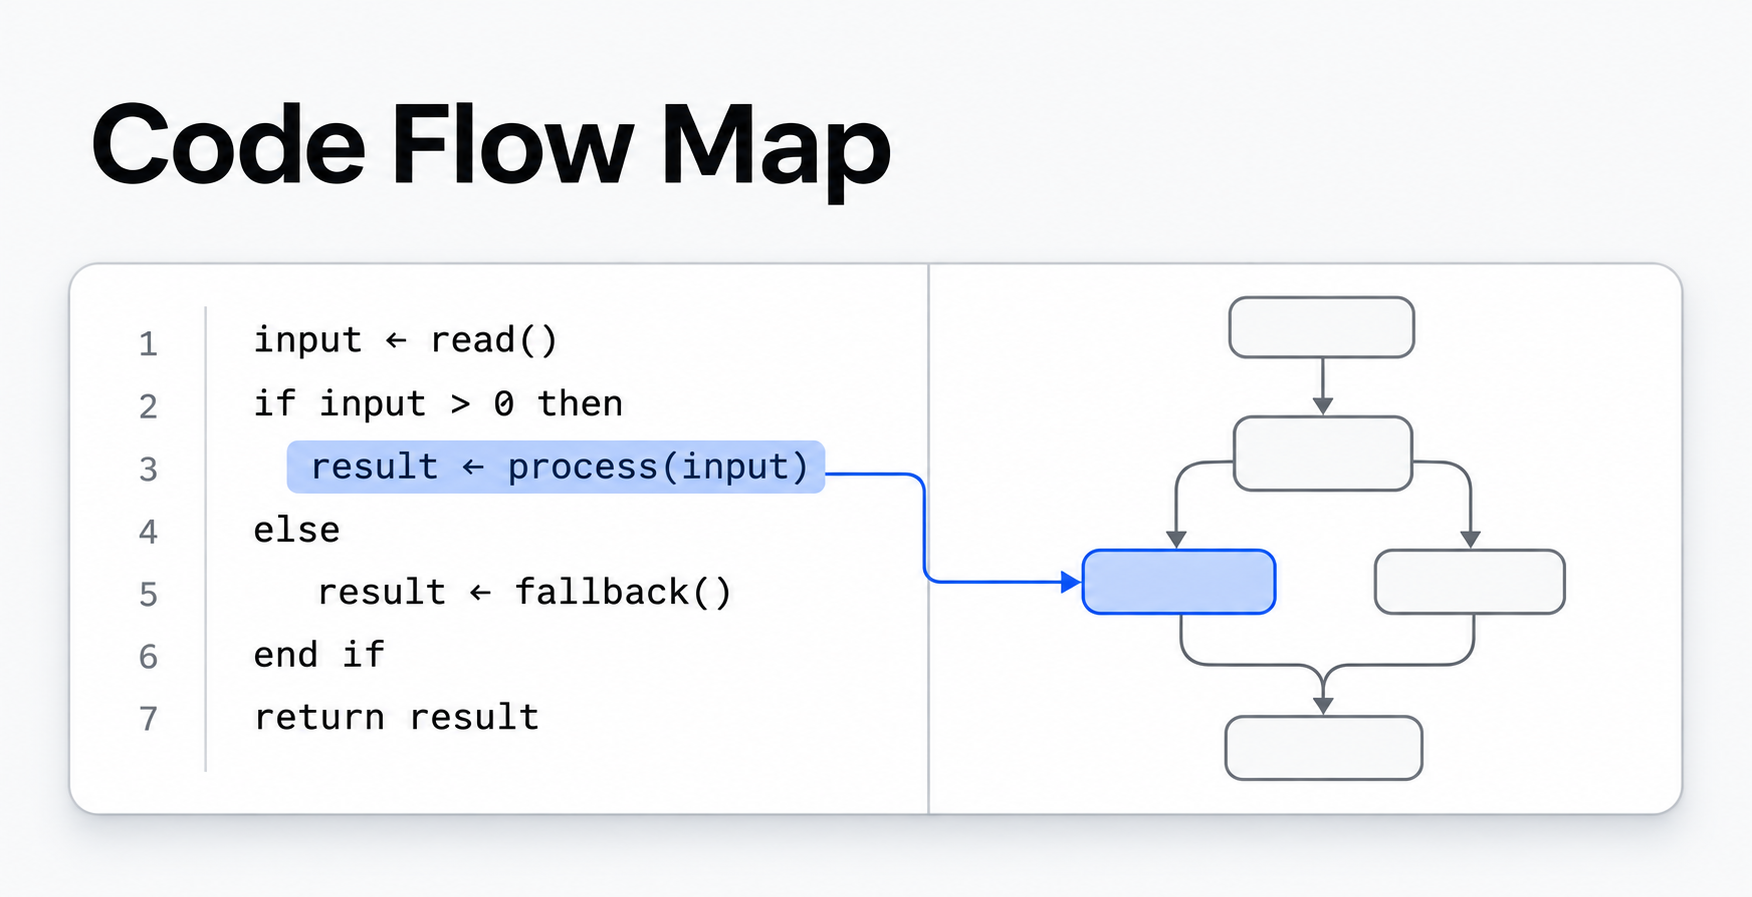
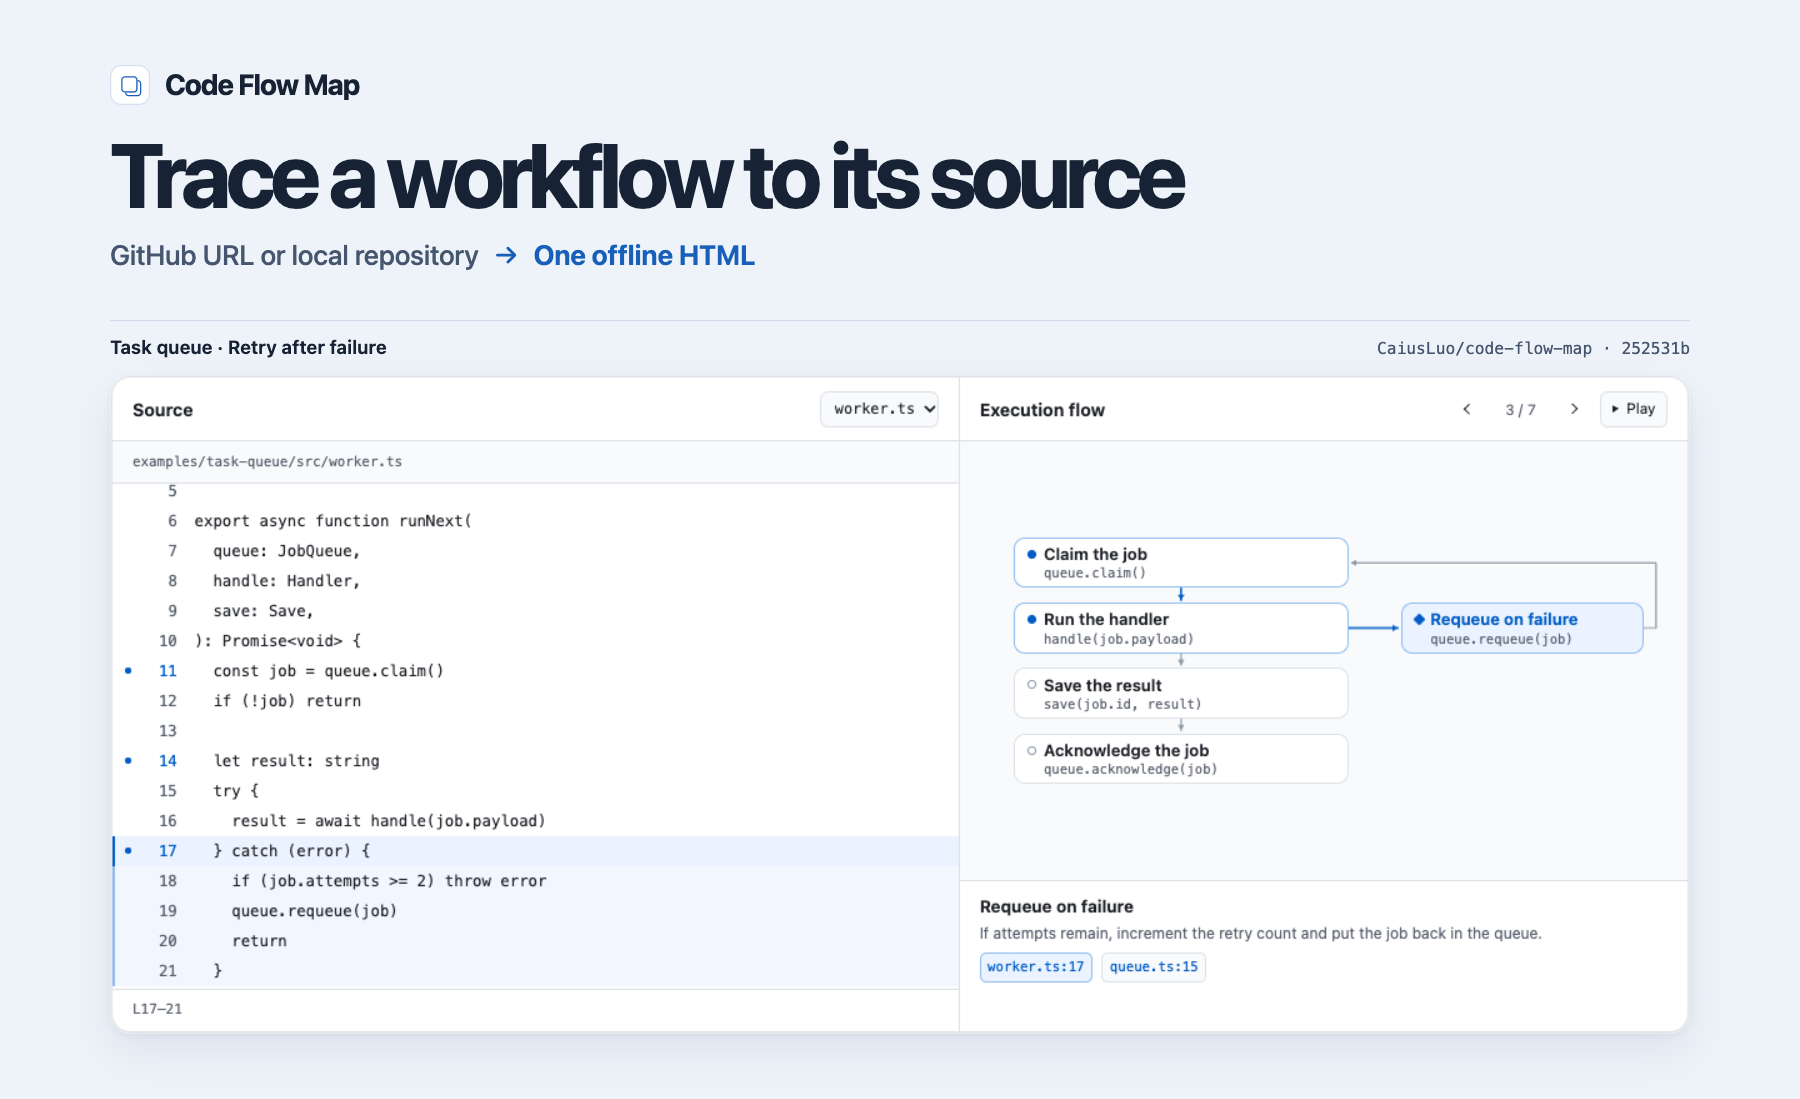
Show Code Flow Map in action in both READMEs

diff --git a/README.md b/README.md
@@ -1,10 +1,26 @@
 # Code Flow Map
 
-**English** · [简体中文](README.zh-CN.md)
+**English** · [简体中文](README.zh-CN.md) · [Read the skill](skills/code-flow-map/SKILL.md)
 
-Trace a repository workflow in an offline HTML page with source code on the left and the execution flow on the right. Click a node to jump to its source lines, or click a marked line number to find its node.
+Turn a workflow from a public GitHub repository or a local directory into one offline HTML walkthrough. The source and execution flow stay linked as you read.
 
-![Code Flow Map cover showing source code linked to execution nodes](docs/images/cover.png)
+![Code Flow Map cover showing the retry branch alongside its source](docs/images/cover.png)
+
+## Quick start
+
+Give `code-flow-map` a public GitHub repository URL or a local repository path, and name the workflow you want to trace. A GitHub URL works without a local checkout. You can also specify a branch, tag, or commit.
+
+> Use `code-flow-map` with `https://github.com/CaiusLuo/code-flow-map`. Trace `examples/task-queue` from claim to completion, including what happens after a failure. Give me an HTML file I can open offline.
+
+To use your local copy, replace the URL with its directory, such as `/path/to/code-flow-map`.
+
+**Flow → source.** Click **Requeue on failure** to jump to `worker.ts` lines 17–21. The GitHub badge opens the exact source commit.
+
+![GitHub input with the retry node and its source lines highlighted](docs/images/github-url.png)
+
+**Source → flow.** Click the marked line that calls `save` to highlight **Save the result**. Use **Play** or the step controls to follow the selected path.
+
+![Local input with the save call and its matching flow node highlighted](docs/images/local-repository.png)
 
 ## Demo
 
@@ -12,19 +28,9 @@ https://github.com/user-attachments/assets/fa17df5e-d21b-488a-b96a-a99b4205e0a4
 
 *36-second walkthrough with Chinese captions, from source navigation to replaying a retry path.*
 
-[Download the offline example](https://github.com/CaiusLuo/code-flow-map/releases/download/v0.1.0/task-queue.html)
-
-## Quick start
-
-Invoke `code-flow-map` in the project you want to understand. In your prompt, name the workflow and any branch you want to trace.
-
-> Trace a job from claim to completion. Show what happens when processing fails and the job is retried. Give me an HTML map I can open offline.
-
-Use playback or single-step controls to follow the main path and its branches. For Git projects, Code Flow Map reads local HEAD by default and records the source commit in the HTML. The file includes the full text of each referenced source file.
-
 ## Install
 
-Rendering requires Python 3.9 or newer. Reading source from a commit requires Git. [Read the skill on GitHub](skills/code-flow-map/SKILL.md) or download the [v0.1.0 skill ZIP](https://github.com/CaiusLuo/code-flow-map/releases/download/v0.1.0/code-flow-map-skill-v0.1.0.zip) for manual installation.
+Rendering requires Python 3.9 or newer. Git is used to resolve branches and tags and read local commits. The HTML includes the full text of the source files it references.
 
 ### Codex and Claude Code
 
@@ -42,10 +48,10 @@ Put the full `code-flow-map` directory under `.agents/skills/` or `.dsh/skills/`
 
 ### Pi
 
-Install the Git package at the release tag, then invoke `/skill:code-flow-map`.
+Install the Git package, then invoke `/skill:code-flow-map`.
 
 ```sh
-pi install git:github.com/CaiusLuo/code-flow-map@v0.1.0
+pi install git:github.com/CaiusLuo/code-flow-map@main
 ```
 
 [Pi packages](https://github.com/earendil-works/pi/blob/main/packages/coding-agent/docs/packages.md)

diff --git a/README.zh-CN.md b/README.zh-CN.md
@@ -1,10 +1,26 @@
 # Code Flow Map
 
-[English](README.md) · **简体中文**
+[English](README.md) · **简体中文** · [阅读 Skill](skills/code-flow-map/SKILL.md)
 
-在一个离线 HTML 页面里读懂仓库的一条执行流程。左侧看源码，右侧看流程。点击节点跳到对应的代码行，点击带圆点的行号回到节点。
+给出公开 GitHub 仓库或本地目录，把一条执行流程做成可离线打开的 HTML。左侧读源码，右侧看流程，两边可以互相定位。
 
-![Code Flow Map 封面，左侧源码与右侧流程节点双向对应](docs/images/cover.png)
+![Code Flow Map 封面，展示失败重试分支和对应源码](docs/images/cover.png)
+
+## 快速开始
+
+把公开 GitHub 仓库链接或本地仓库路径交给 `code-flow-map`，再说明你想追踪哪条流程。直接给 GitHub 链接就可以，无需在本地克隆。也可以指定分支、标签或提交。
+
+> 用 `code-flow-map` 看 `https://github.com/CaiusLuo/code-flow-map` 里的 `examples/task-queue`。梳理任务从领取到完成的流程，带上失败重试分支，生成一个能离线打开的 HTML。
+
+如果你已经有本地副本，把链接换成目录即可，例如 `/path/to/code-flow-map`。
+
+**流程 → 源码。** 点击「失败后重新入队」，左侧跳到 `worker.ts` 第 17–21 行。点击 GitHub 提交号可打开对应版本。
+
+![从 GitHub 链接生成，重试节点和对应代码行同时高亮](docs/images/github-url.png)
+
+**源码 → 流程。** 点击调用 `save` 的带圆点行号，右侧高亮「保存结果」。可以播放或单步跟读选中的路径。
+
+![从本地目录生成，保存结果的代码行和对应节点同时高亮](docs/images/local-repository.png)
 
 ## 演示
 
@@ -12,19 +28,9 @@ https://github.com/user-attachments/assets/fa17df5e-d21b-488a-b96a-a99b4205e0a4
 
 *36 秒使用演示，从源码定位到重试路径播放。*
 
-[下载离线示例](https://github.com/CaiusLuo/code-flow-map/releases/download/v0.1.0/task-queue.html)
-
-## 最小用法
-
-在要阅读的项目里调用 `code-flow-map`，指定要追踪的流程，带上你关心的分支。
-
-> 梳理任务从领取到完成的流程，展示处理失败后的重试过程。生成一个能离线打开的 HTML 流程图。
-
-用播放或单步按钮按顺序跟读主线和分支。对于 Git 项目，Code Flow Map 默认读取本地 HEAD，并在 HTML 里标明提交号。HTML 包含被引用的源码文件全文。
-
 ## 安装
 
-生成 HTML 需要 Python 3.9 或更新版本。从提交读取源码需要 Git。可以[直接在 GitHub 阅读 Skill](skills/code-flow-map/SKILL.md)，也可以下载 [v0.1.0 Skill ZIP](https://github.com/CaiusLuo/code-flow-map/releases/download/v0.1.0/code-flow-map-skill-v0.1.0.zip) 手动安装。
+生成 HTML 需要 Python 3.9 或更新版本。解析分支、标签或读取本地提交需要 Git。HTML 包含所引用源码文件的全文。
 
 ### Codex 和 Claude Code
 
@@ -42,10 +48,10 @@ npx skills add CaiusLuo/code-flow-map --skill code-flow-map --agent codex claude
 
 ### Pi
 
-用 Pi 的 Git 包安装，固定到首版。安装后在 Pi 输入 `/skill:code-flow-map`。
+用 Pi 的 Git 包安装，再输入 `/skill:code-flow-map`。
 
 ```sh
-pi install git:github.com/CaiusLuo/code-flow-map@v0.1.0
+pi install git:github.com/CaiusLuo/code-flow-map@main
 ```
 
 [Pi 包与安装文档](https://github.com/earendil-works/pi/blob/main/packages/coding-agent/docs/packages.md)
